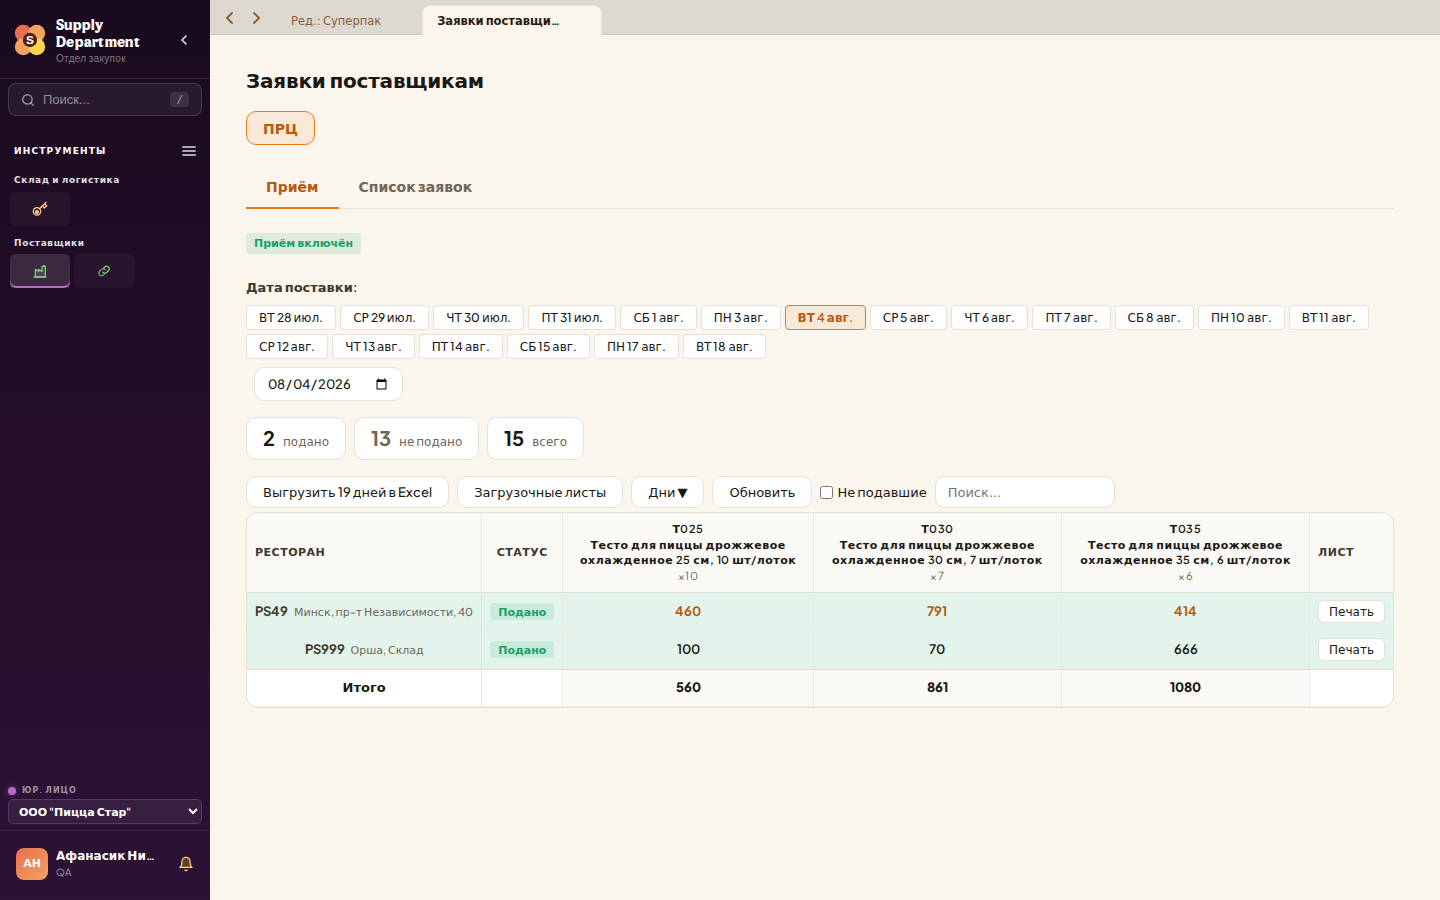
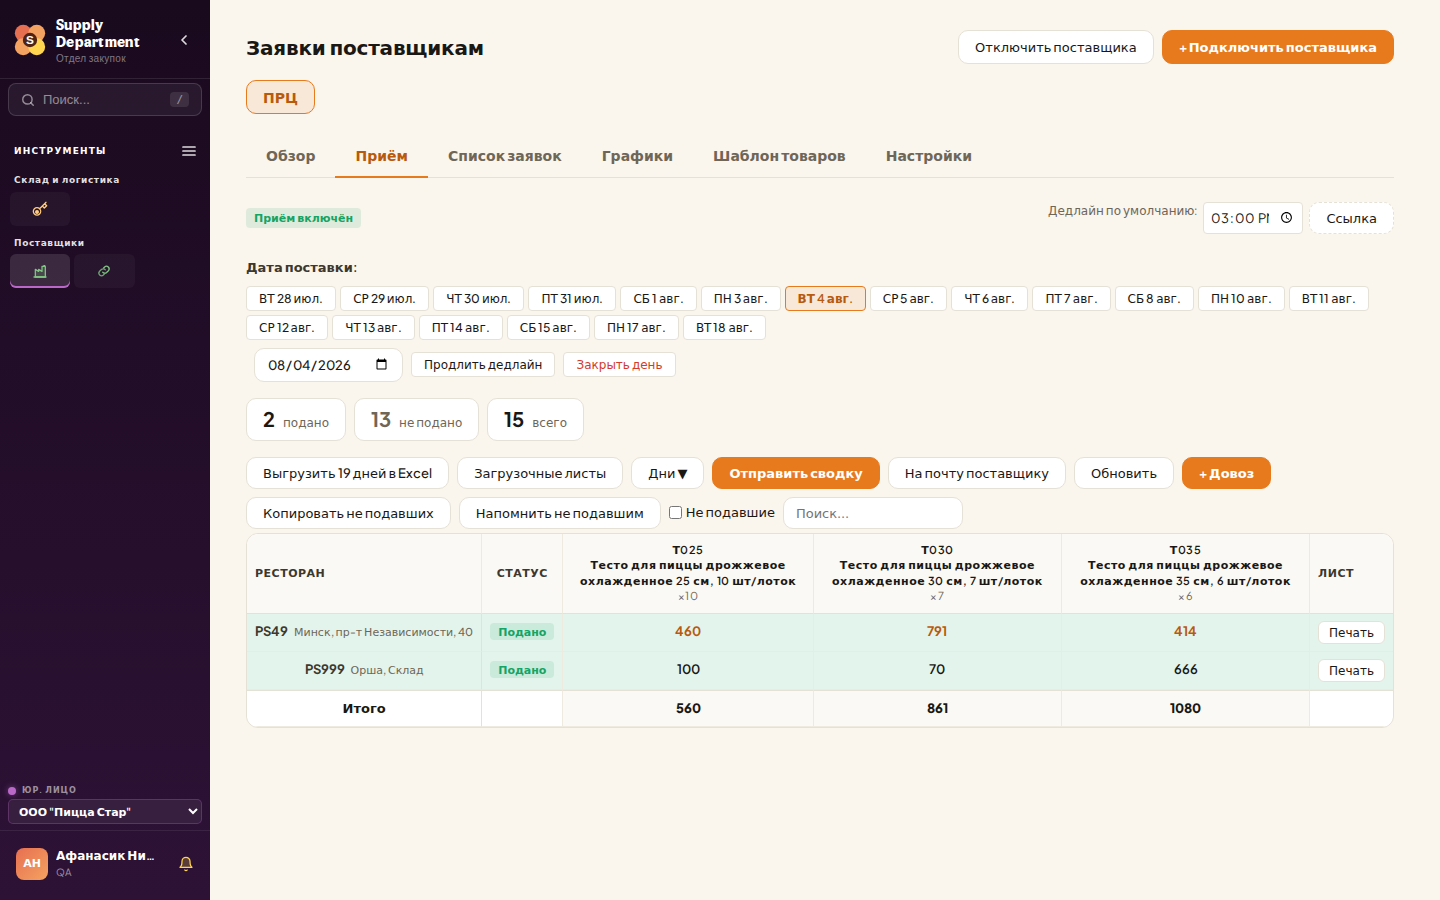
revert(ПРЦ): экран модуля возвращён в прежний вид
Скрытие вкладок и кнопок для привязанного сотрудника в задачу не входило —
убрано по просьбе. Оба файла точь-в-точь как до правок.

Ограничение по поставщику остаётся: ПРЦ видит в списке только себя,
чужие заявки и выгрузки закрыты на сервере. Кнопки отдела закупок ему
видны, но портал их не пропустит — это описано в инструкции.

Инструкция и скриншоты обновлены под фактический вид экрана.

diff --git a/src/views/SupplierOrdersManagerView.vue b/src/views/SupplierOrdersManagerView.vue
@@ -5,13 +5,9 @@
       <h1>Заявки поставщикам</h1>
     </div>
 
-    <!-- Page tabs.
-         Пользователю, привязанному к своему поставщику (например, сотруднику
-         производственного центра), настроечные вкладки не нужны: он приходит
-         посмотреть заявки и забрать файлы, а «Графики» — это редактор
-         дедлайнов, а не справка. -->
+    <!-- Page tabs -->
     <div class="rom-page-tabs">
-      <button v-if="!isSupplierScoped" class="rom-page-tab" :class="{ active: pageTab === 'overview' }" @click="pageTab = 'overview'; loadOverview()">
+      <button class="rom-page-tab" :class="{ active: pageTab === 'overview' }" @click="pageTab = 'overview'; loadOverview()">
         Обзор
       </button>
       <button class="rom-page-tab" :class="{ active: pageTab === 'status' }" @click="pageTab = 'status'; loadStatus()">
@@ -20,13 +16,13 @@
       <button class="rom-page-tab" :class="{ active: pageTab === 'list' }" @click="pageTab = 'list'; loadOrdersList()">
         Список заявок
       </button>
-      <button v-if="!isSupplierScoped" class="rom-page-tab" :class="{ active: pageTab === 'schedules' }" @click="pageTab = 'schedules'; loadSchedules()">
+      <button class="rom-page-tab" :class="{ active: pageTab === 'schedules' }" @click="pageTab = 'schedules'; loadSchedules()">
         Графики
       </button>
-      <button v-if="!isSupplierScoped" class="rom-page-tab" :class="{ active: pageTab === 'templates' }" @click="pageTab = 'templates'; loadTemplates()">
+      <button class="rom-page-tab" :class="{ active: pageTab === 'templates' }" @click="pageTab = 'templates'; loadTemplates()">
         Шаблон товаров
       </button>
-      <button v-if="!isSupplierScoped" class="rom-page-tab" :class="{ active: pageTab === 'settings' }" @click="pageTab = 'settings'; loadSettings()">
+      <button class="rom-page-tab" :class="{ active: pageTab === 'settings' }" @click="pageTab = 'settings'; loadSettings()">
         Настройки
       </button>
     </div>
@@ -123,7 +119,7 @@
           :title="'Управление приёмом — во вкладке «Настройки»'">
           {{ settings.is_accepting_orders ? 'Приём включён' : 'Приём приостановлен' }}
         </span>
-        <div v-if="!isSupplierScoped" class="so-detail-actions">
+        <div class="so-detail-actions">
           <label class="so-inline-label">Дедлайн по умолчанию:</label>
           <input type="time" v-model="defaultDeadline" class="rom-input-sm" style="width:100px" />
           <button class="rom-btn rom-btn-outline" @click="copyLink">Ссылка</button>
@@ -143,10 +139,10 @@
           </button>
         </div>
         <input type="date" v-model="selectedDate" @change="loadStatus" style="margin-left:8px" />
-        <button v-if="selectedDate && !isSupplierScoped" class="rom-btn-sm" @click="handleExtendDeadline" title="Разовое продление дедлайна на эту дату">
+        <button v-if="selectedDate" class="rom-btn-sm" @click="handleExtendDeadline" title="Разовое продление дедлайна на эту дату">
           Продлить дедлайн
         </button>
-        <button v-if="selectedDate && !isSupplierScoped" class="rom-btn-sm" :class="isDateForcedClosed(selectedDate) ? 'so-btn-open-day' : 'so-btn-close-day'"
+        <button v-if="selectedDate" class="rom-btn-sm" :class="isDateForcedClosed(selectedDate) ? 'so-btn-open-day' : 'so-btn-close-day'"
           @click="handleToggleCloseDay(selectedDate)" :title="isDateForcedClosed(selectedDate) ? 'Открыть день для подачи заявок' : 'Закрыть день — рестораны не смогут подавать заявки'">
           {{ isDateForcedClosed(selectedDate) ? 'Открыть день' : 'Закрыть день' }}
         </button>
@@ -203,23 +199,23 @@
               @click="exportDatePickerOpen = !exportDatePickerOpen" title="Выбрать дни для выгрузки">
               {{ exportDatePickerOpen ? 'Дни ▲' : 'Дни ▼' }}
             </button>
-            <button v-if="!isSupplierScoped" class="rom-btn rom-btn-primary"
+            <button class="rom-btn rom-btn-primary"
               @click="sendSummary" :disabled="sendingSummary || !selectedDate" title="Сгенерировать Excel и отправить подписчикам в Telegram">
               <BurgerSpinner v-if="sendingSummary" size="xs" />
               <span>{{ sendingSummary ? 'Отправка...' : 'Отправить сводку' }}</span>
             </button>
-            <button v-if="!isSupplierScoped" class="rom-btn" @click="sendSummaryEmail" :disabled="sendingSummaryEmail || !selectedDate"
+            <button class="rom-btn" @click="sendSummaryEmail" :disabled="sendingSummaryEmail || !selectedDate"
               title="Сгенерировать Excel и отправить на почту поставщика">
               {{ sendingSummaryEmail ? 'Отправка…' : 'На почту поставщику' }}
             </button>
             <button class="rom-btn" @click="loadStatus" :disabled="loading">Обновить</button>
-            <button v-if="!isSupplierScoped" class="rom-btn rom-btn-primary" @click="openAdhocModal" title="Создать внеплановую заявку (довоз) для ресторана на любую дату вне графика">
+            <button class="rom-btn rom-btn-primary" @click="openAdhocModal" title="Создать внеплановую заявку (довоз) для ресторана на любую дату вне графика">
               + Довоз
             </button>
-            <button v-if="!isSupplierScoped" class="rom-btn" @click="copyMissingRestaurants" :disabled="!selectedDate" title="Скопировать номера ресторанов, которые не подали заявку на эту дату">
+            <button class="rom-btn" @click="copyMissingRestaurants" :disabled="!selectedDate" title="Скопировать номера ресторанов, которые не подали заявку на эту дату">
               Копировать не подавших
             </button>
-            <button v-if="!isSupplierScoped" class="rom-btn" @click="remindUnsubmitted" :disabled="!selectedDate || remindingStatus" title="Напомнить ресторанам, которые не подали заявку на эту дату">
+            <button class="rom-btn" @click="remindUnsubmitted" :disabled="!selectedDate || remindingStatus" title="Напомнить ресторанам, которые не подали заявку на эту дату">
               {{ remindingStatus ? 'Отправка…' : 'Напомнить не подавшим' }}
             </button>
             <label class="so-filter-check">
@@ -395,7 +391,7 @@
               <td>{{ o.total_qty ? (Number.isInteger(+o.total_qty) ? +o.total_qty : (+o.total_qty).toFixed(2)) : '—' }}</td>
               <td class="rom-td-actions">
                 <button class="rom-btn-sm" @click="viewOrder(o.id)">Открыть</button>
-                <button v-if="!isSupplierScoped" class="rom-btn-sm rom-btn-danger" @click="deleteOrder(o.id, o.status)">Удалить</button>
+                <button class="rom-btn-sm rom-btn-danger" @click="deleteOrder(o.id, o.status)">Удалить</button>
               </td>
             </tr>
           </tbody>
@@ -1064,7 +1060,6 @@ import { useRoute, useRouter } from 'vue-router';
 import { useSupplierOrderStore } from '@/stores/supplierOrderStore.js';
 import { appPrompt } from '@/lib/appDialogs.js';
 import { useOrderStore } from '@/stores/orderStore.js';
-import { useUserStore } from '@/stores/userStore.js';
 import { db } from '@/lib/apiClient.js';
 import { formatRestaurantNumber, LEGAL_ENTITIES, ENTITY_SHORT_NAMES, getEntityGroup } from '@/lib/legalEntities.js';
 import { toLocalDateStr } from '@/lib/utils.js';
@@ -1091,21 +1086,9 @@ const dayNames = { 1: 'ПН', 2: 'ВТ', 3: 'СР', 4: 'ЧТ', 5: 'ПТ', 6: 'С
 const dayNamesFull = { 1: 'Понедельник', 2: 'Вторник', 3: 'Среда', 4: 'Четверг', 5: 'Пятница', 6: 'Суббота', 7: 'Воскресенье' };
 const daysShort = { 1: 'Пн', 2: 'Вт', 3: 'Ср', 4: 'Чт', 5: 'Пт', 6: 'Сб', 7: 'Вс' };
 
-// Пользователь, привязанный к своим поставщикам (внешние сотрудники —
-// например, производственный центр). Ограничение всё равно проверяется на
-// сервере; здесь только убираем ненужные ему вкладки.
-const userStore = useUserStore();
-const isSupplierScoped = computed(() => {
-  const raw = userStore.currentUser?.supplier_scope;
-  if (!raw) return false;
-  const list = Array.isArray(raw) ? raw : (() => { try { return JSON.parse(raw) || []; } catch { return []; } })();
-  return list.length > 0;
-});
-
 // Стартовая вкладка: «Обзор» по умолчанию, но при входе по прямой ссылке
 // на конкретного поставщика (props.supplierId) — сразу «Приём».
-// Привязанному пользователю «Обзора» не видно, поэтому открываем «Приём».
-const pageTab = ref(props.supplierId || isSupplierScoped.value ? 'status' : 'overview');
+const pageTab = ref(props.supplierId ? 'status' : 'overview');
 const loading = ref(false);
 const allSuppliers = ref([]);
 const currentSupplierId = ref(props.supplierId || '');

diff --git a/src/views/SupplierOrdersHubView.vue b/src/views/SupplierOrdersHubView.vue
@@ -2,10 +2,7 @@
   <div class="so-hub">
     <div class="so-hub-header">
       <h1>Заявки поставщикам</h1>
-      <!-- Подключение и отключение поставщиков — работа закупок.
-           Внешнему сотруднику (привязан к своему поставщику) эти кнопки
-           только мешают: сервер их всё равно не пропустит. -->
-      <div v-if="!isSupplierScoped" class="so-hub-header-actions">
+      <div class="so-hub-header-actions">
         <button
           v-if="selectedType === 'so' && selectedId"
           class="so-hub-disconnect-btn"
@@ -48,8 +45,7 @@
 </template>
 
 <script setup>
-import { ref, computed, defineAsyncComponent, onMounted, watch } from 'vue';
-import { useUserStore } from '@/stores/userStore.js';
+import { ref, defineAsyncComponent, onMounted, watch } from 'vue';
 import { useSupplierOrderStore } from '@/stores/supplierOrderStore.js';
 import { useOrderStore } from '@/stores/orderStore.js';
 import { getEntityGroupCode } from '@/lib/legalEntities.js';
@@ -60,15 +56,6 @@ const SupplierConnectModal = defineAsyncComponent(() => import('@/components/mod
 
 const soStore = useSupplierOrderStore();
 const orderStore = useOrderStore();
-
-// Внешний сотрудник, привязанный к своим поставщикам: настроечные действия ему не показываем.
-const userStore = useUserStore();
-const isSupplierScoped = computed(() => {
-  const raw = userStore.currentUser?.supplier_scope;
-  if (!raw) return false;
-  const list = Array.isArray(raw) ? raw : (() => { try { return JSON.parse(raw) || []; } catch { return []; } })();
-  return list.length > 0;
-});
 
 const suppliers = ref([]);
 const selectedId = ref('');

diff --git a/docs/instrukciya-prc-portal.md b/docs/instrukciya-prc-portal.md
@@ -37,12 +37,16 @@
 Вам открыт **один раздел — «Заявки поставщикам»**, и в нём **только ПРЦ**.
 Заявки другим поставщикам Пицца Стар вам не показываются.
 
-Внутри раздела две вкладки:
+Вверху раздела несколько вкладок. Вам нужны две:
 
 | Вкладка | Для чего |
 |---|---|
-| **Приём** | Главный экран: заявки на выбранный день и выгрузки |
+| **Приём** | Главный экран: заявки на выбранный день, выгрузки и печать |
 | **Список заявок** | Все заявки за период, если нужно найти конкретную |
+
+Остальные вкладки — «Обзор», «Графики», «Шаблон товаров», «Настройки» — рабочие
+экраны отдела закупок. Они у вас открываются, но менять там ничего не нужно
+и не получится: сохранение доступно только закупкам.
 
 ---
 
@@ -72,6 +76,12 @@
 ---
 
 ## 5. Кнопки выгрузки
+
+На экране «Приём» есть и кнопки для отдела закупок — «Отправить сводку»,
+«На почту поставщику», «+ Довоз», «Напомнить не подавшим», «Закрыть день».
+Они вам не нужны: нажатие ничего не изменит, портал ответит отказом.
+
+Ваши кнопки:
 
 - **«Выгрузить N дней в Excel»** — заявки сразу за все ближайшие дни, одним файлом.
   Удобно для планирования смен.
@@ -122,6 +132,10 @@
 **Могу ли я поправить количество в заявке?**
 Нет. Изменения вносит отдел закупок или сам ресторан до дедлайна.
 Если видите ошибку — напишите в отдел закупок.
+
+**Нажал кнопку, а портал написал, что нет доступа.**
+Значит это кнопка отдела закупок. Ничего не сломалось, просто закройте
+сообщение и работайте дальше.
 
 **В таблице пусто, хотя день рабочий.**
 Проверьте выбранную дату и снимите галочку «Не подавшие» — она показывает только
